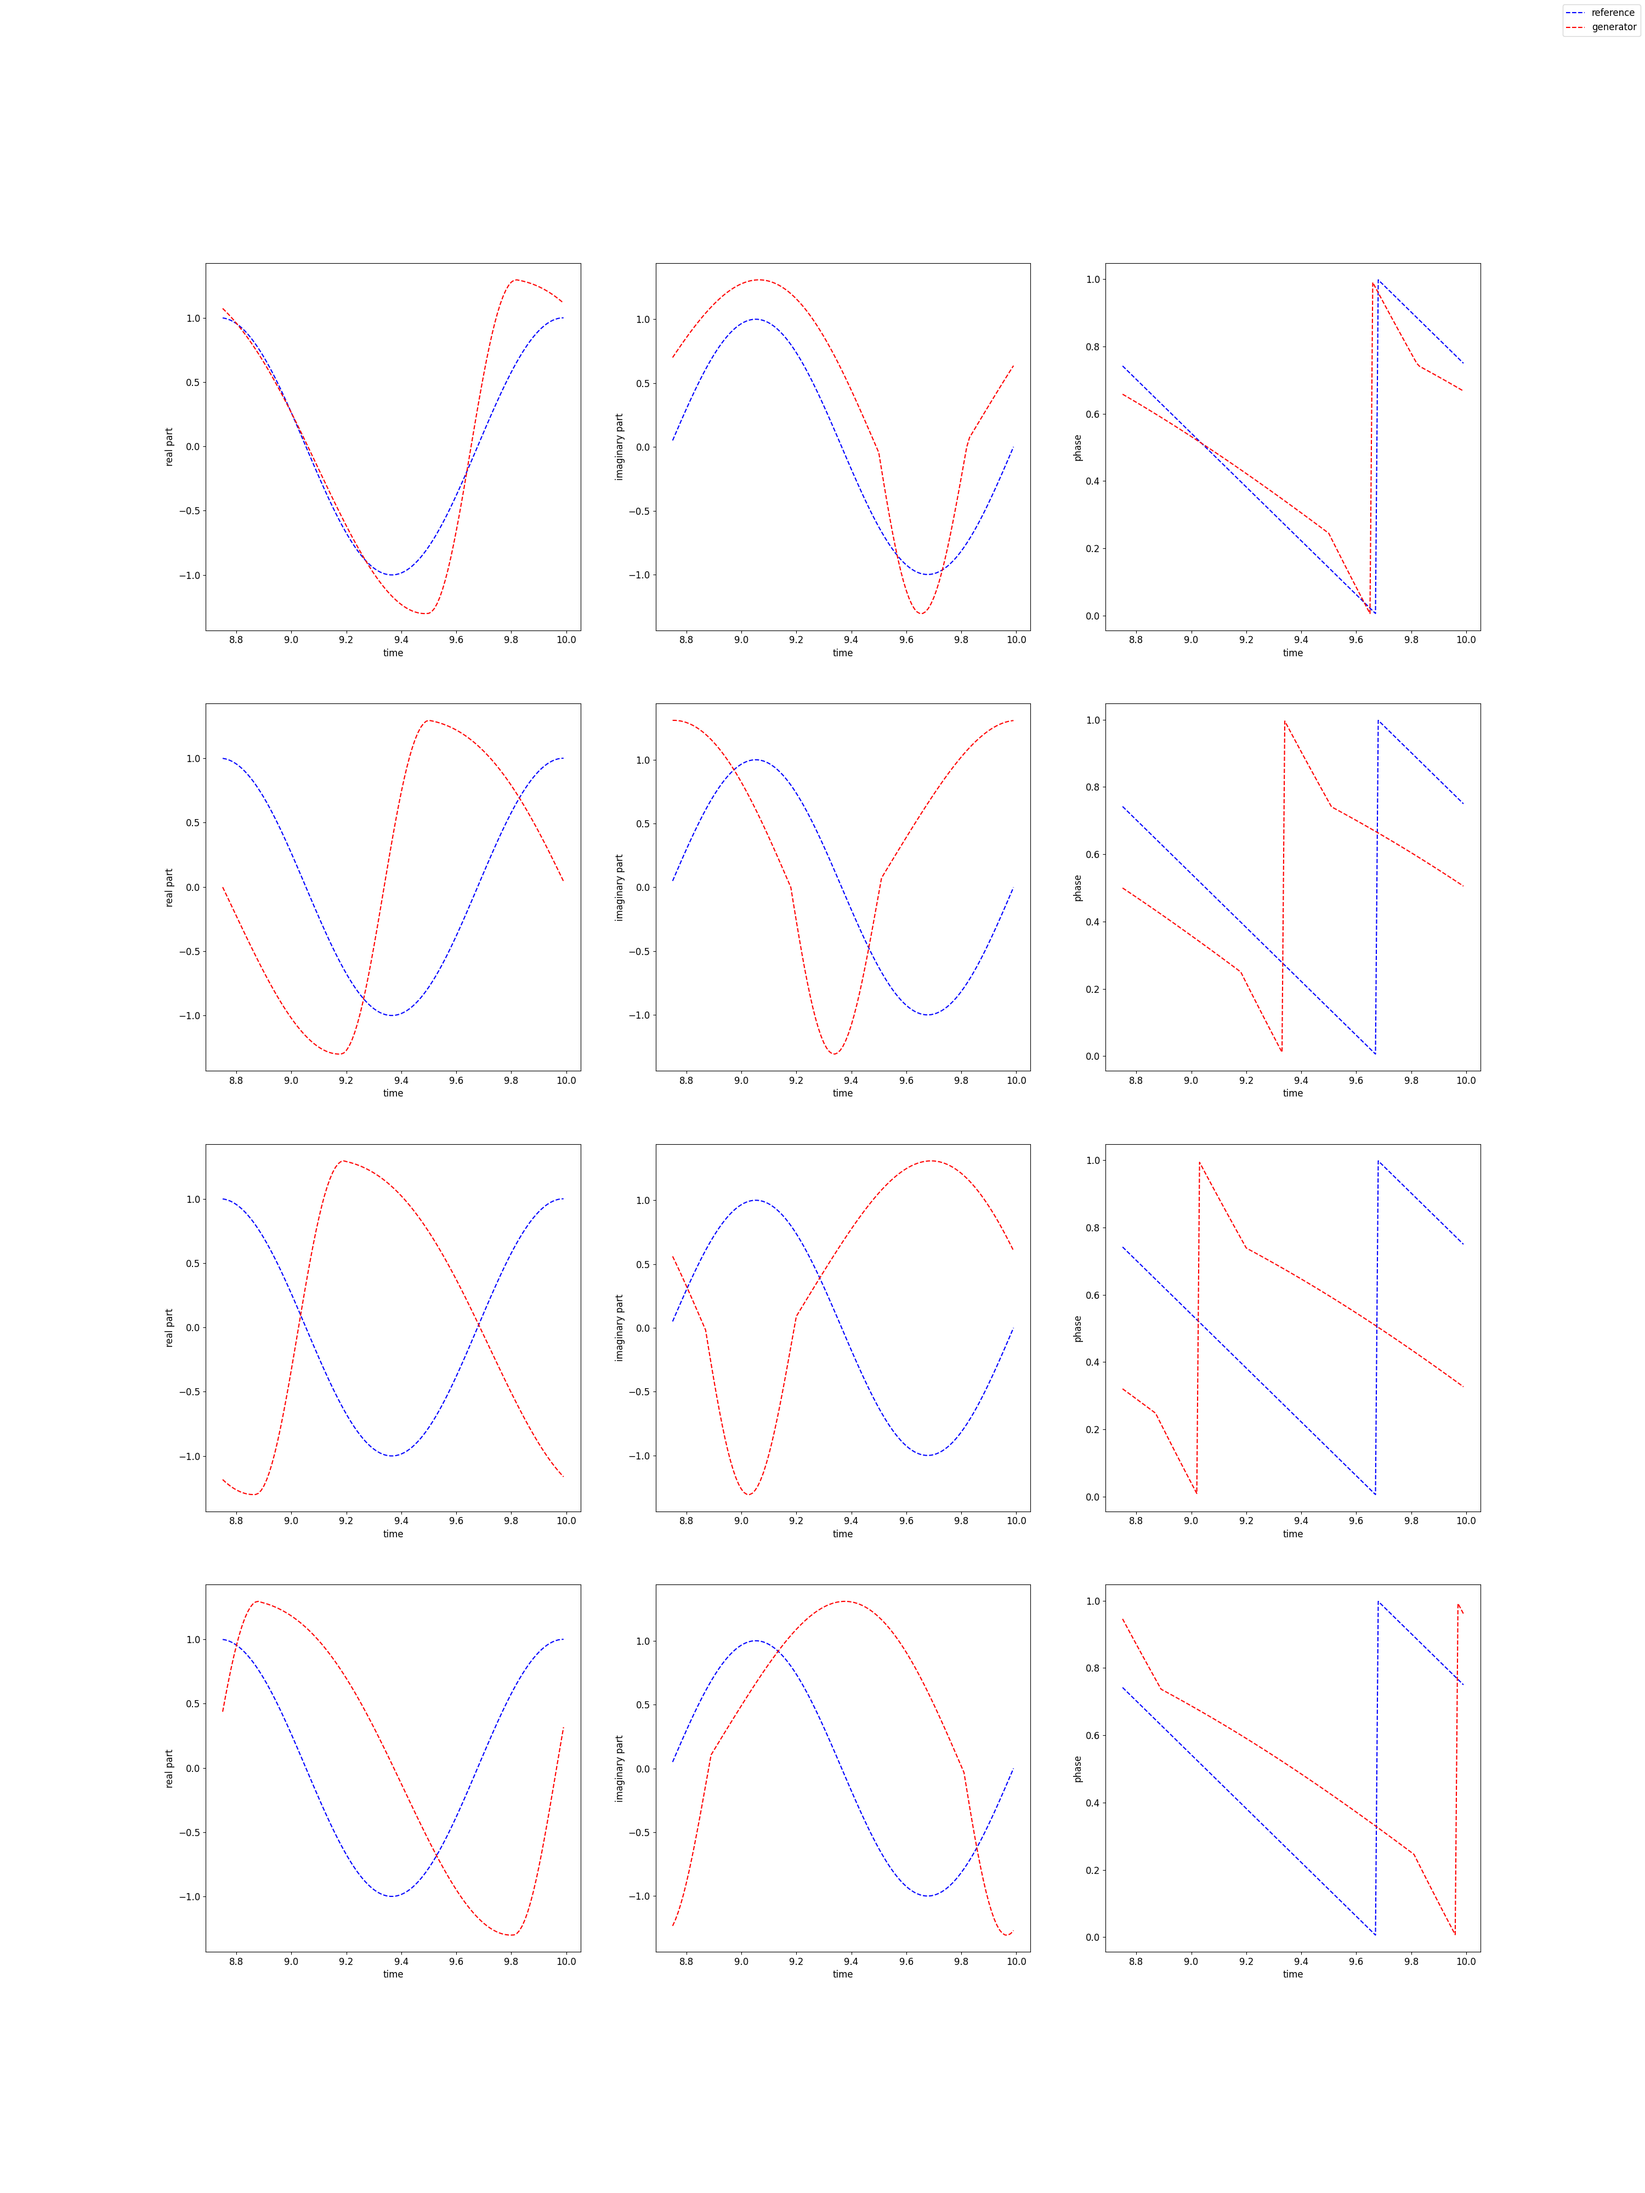
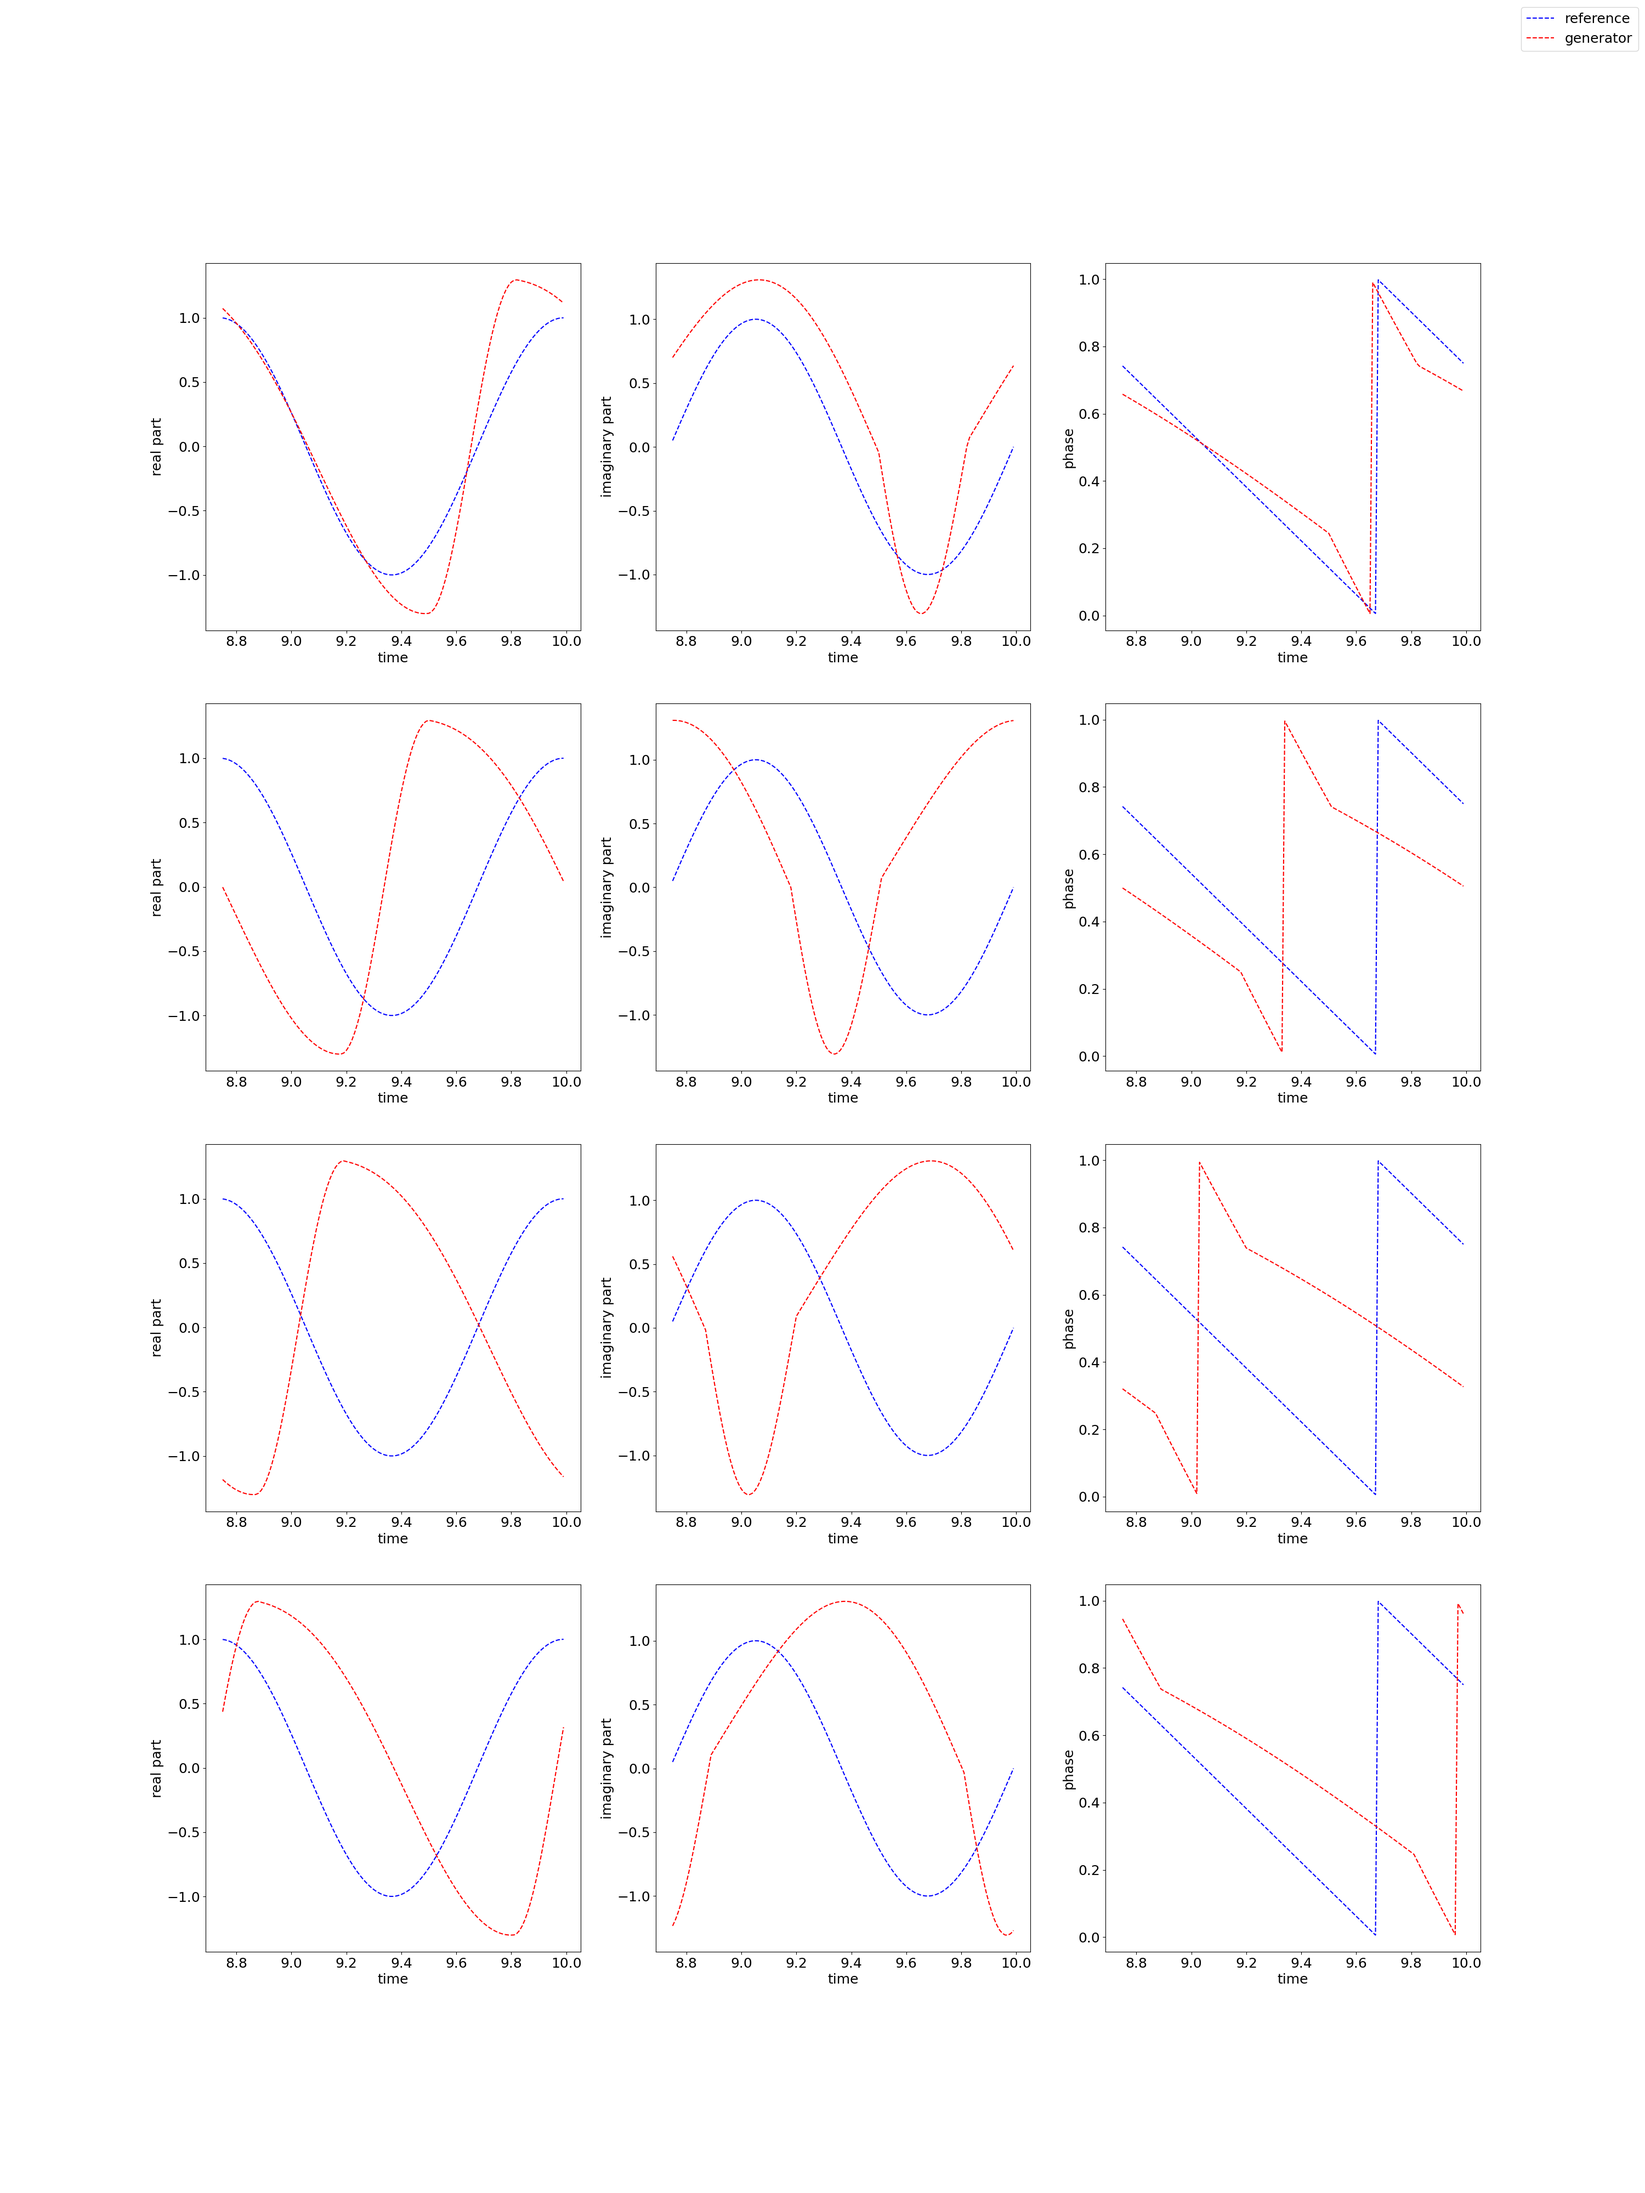
commit sync

diff --git a/oscillator_v2.py b/oscillator_v2.py
@@ -277,7 +277,7 @@ def test_cpg(
         Z1.append(z1.copy())
     Z1 = np.stack(Z1, 0)
     Z2 = np.stack(Z2, 0)
-    plt.rcParams["font.size"] = "12"
+    plt.rcParams["font.size"] = "18"
     for j in range(4):
         fig, axes = plt.subplots(4,3,figsize=(30, 40))
         steps = N // 8
